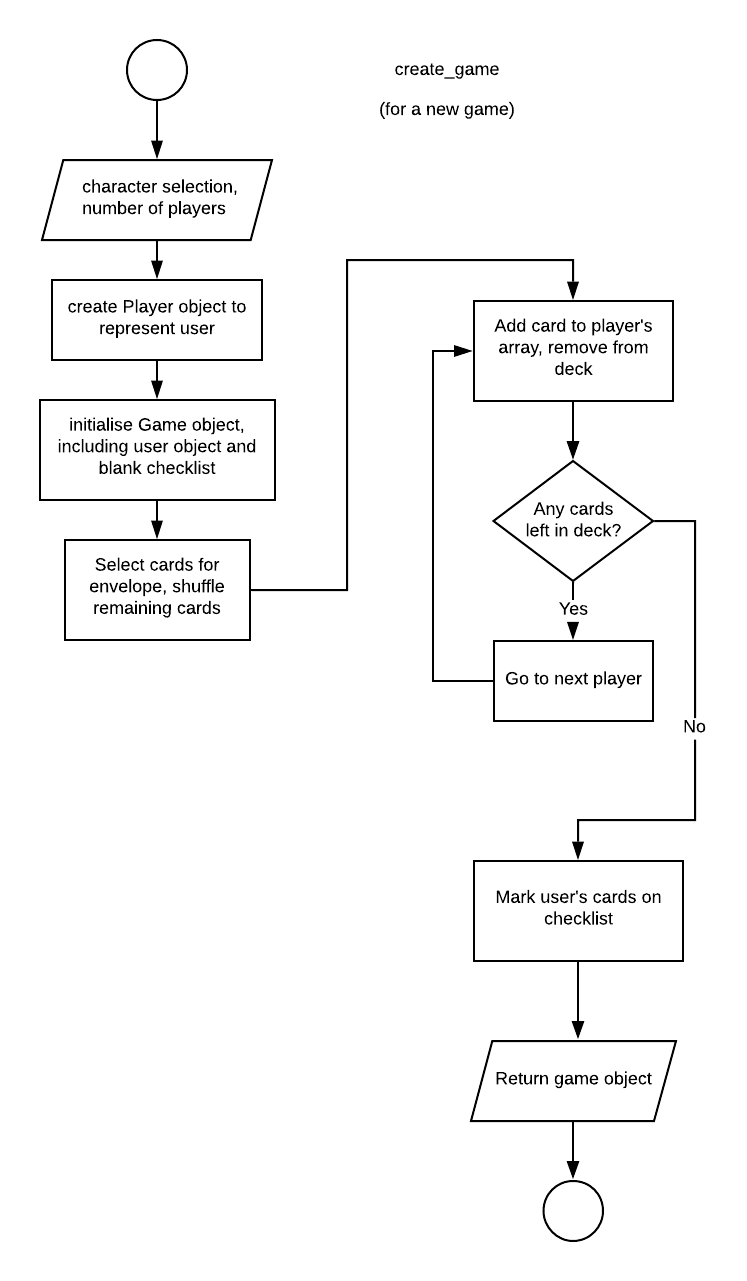
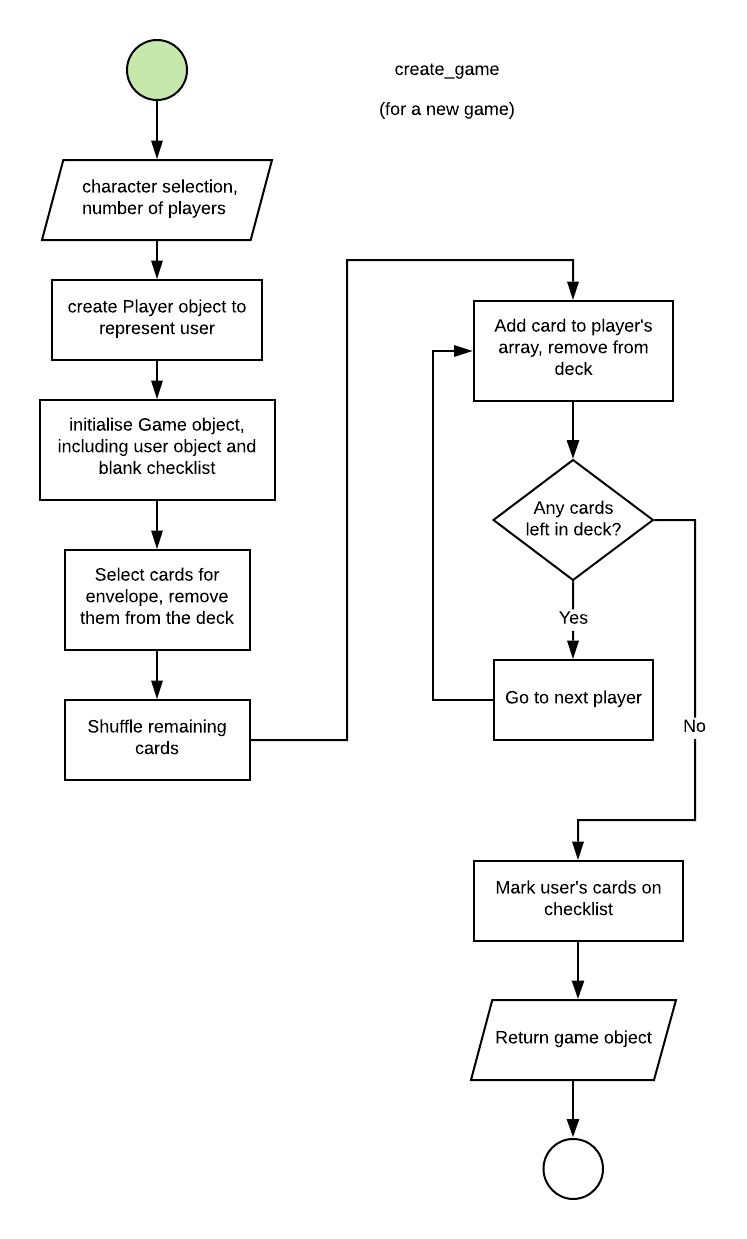
flowchart added

diff --git a/README.md b/README.md
@@ -81,13 +81,16 @@ The user is able to save their game data to a predefined file path in the app di
 ## Known issues
 - App does not currently check if data loaded in from an external file is valid save data
 - Checklist table does not display properly if terminal window is too small
+- Save file stores game data unencrypted, so the user could read the win conditions from the file
 
 ## Control Flow Diagram
-Since most of the game takes place inside a menu loop with many options, rather than create a flowchart of the entire app's functionality I have provided flowcarts for two major parts of the app's functionality:
+Since most of the game takes place inside the game menu loop, rather than create a flowchart of the entire app's functionality I have provided flowcarts for these parts of the app's functionality:
 
-- the `create_game` method that runs when a new game is started
+- the `main_menu` method through which the user chooses to start a new game or load a save file
+- the `create_game` method that runs when the user selects to start a game
 - the `make_guess` method that runs when the user is making a guess
 
+![main_menu method](tessa-peterson-T1A2-5-main_menu.png)
 ![create_game method](tessa-peterson-T1A2-5-create_game.png)
 ![make_guess method](tessa-peterson-T1A2-5-make_guess.png)
 
@@ -98,6 +101,9 @@ Since most of the game takes place inside a menu loop with many options, rather 
 
 
 # Trello Screenshots
+
+## Link: [T1A2 Cluedo App](https://trello.com/b/V0fUqA5N/t1a2-cluedo-app)
+
 ![3/9/19](tessa-peterson-T1A2-14-2019-09-03.png)
 ![4/9/19](tessa-peterson-T1A2-14-2019-09-04.png)
 ![5/9/19](tessa-peterson-T1A2-14-2019-09-05.png)

diff --git a/tessa-peterson-T1A2-1-to-5-software-development-plan.md b/tessa-peterson-T1A2-1-to-5-software-development-plan.md
@@ -29,12 +29,15 @@ The user is able to save their game data to a predefined file path in the app di
 ## Known issues
 - App does not currently check if data loaded in from an external file is valid save data
 - Checklist table does not display properly if terminal window is too small
+- Save file stores game data unencrypted, so the user could read the win conditions from the file
 
 ## Control Flow Diagram
-Since most of the game takes place inside a menu loop with many options, rather than create a flowchart of the entire app's functionality I have provided flowcarts for two major parts of the app's functionality:
+Since most of the game takes place inside the game menu loop, rather than create a flowchart of the entire app's functionality I have provided flowcarts for these parts of the app's functionality:
 
-- the `create_game` method that runs when a new game is started
+- the `main_menu` method through which the user chooses to start a new game or load a save file
+- the `create_game` method that runs when the user selects to start a game
 - the `make_guess` method that runs when the user is making a guess
 
+![main_menu method](tessa-peterson-T1A2-5-main_menu.png)
 ![create_game method](tessa-peterson-T1A2-5-create_game.png)
 ![make_guess method](tessa-peterson-T1A2-5-make_guess.png)
